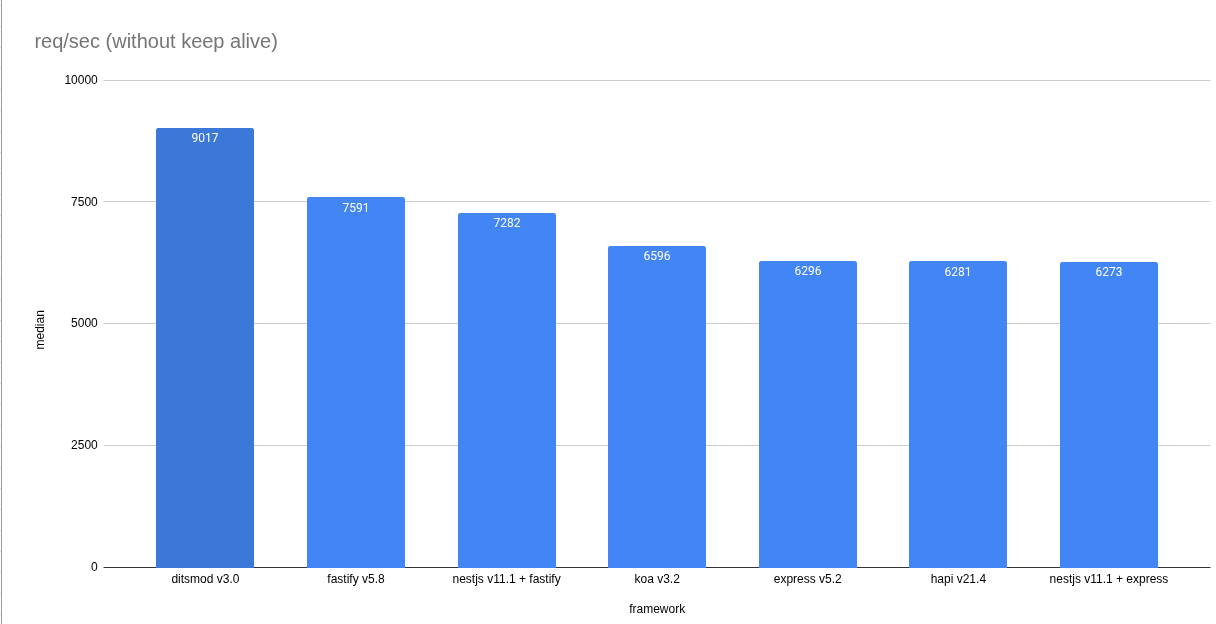
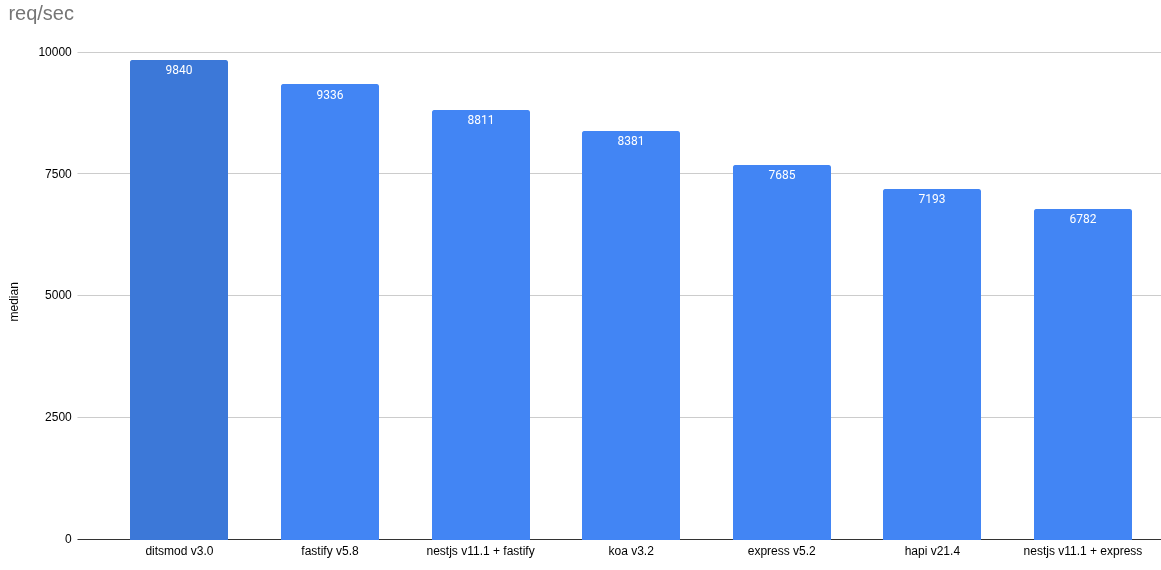
Update img of the benchmarks

Changed region(s): [[0.0, 0.0, 0.9922, 0.9842]]

diff --git a/README.md b/README.md
@@ -57,7 +57,7 @@ npm run ditsmod
 From second terminal:
 
 ```bash
-wrk -t1 -c10 -d5 -H 'Connection: close' http://localhost:3000/hello
+wrk -t4 -c20 -d30 -H 'Connection: close' http://localhost:3000/hello
 ```
 
 
@@ -67,5 +67,5 @@ wrk -t1 -c10 -d5 -H 'Connection: close' http://localhost:3000/hello
 You can also check the work of Ditsmod and NestJS with controllers that are created "per request". To do this, request for the path `/hello2`, for example:
 
 ```bash
-wrk -t1 -c10 -d3 -H 'Connection: close' http://localhost:3000/hello2
+wrk -t4 -c20 -d30 -H 'Connection: close' http://localhost:3000/hello2
 ```
